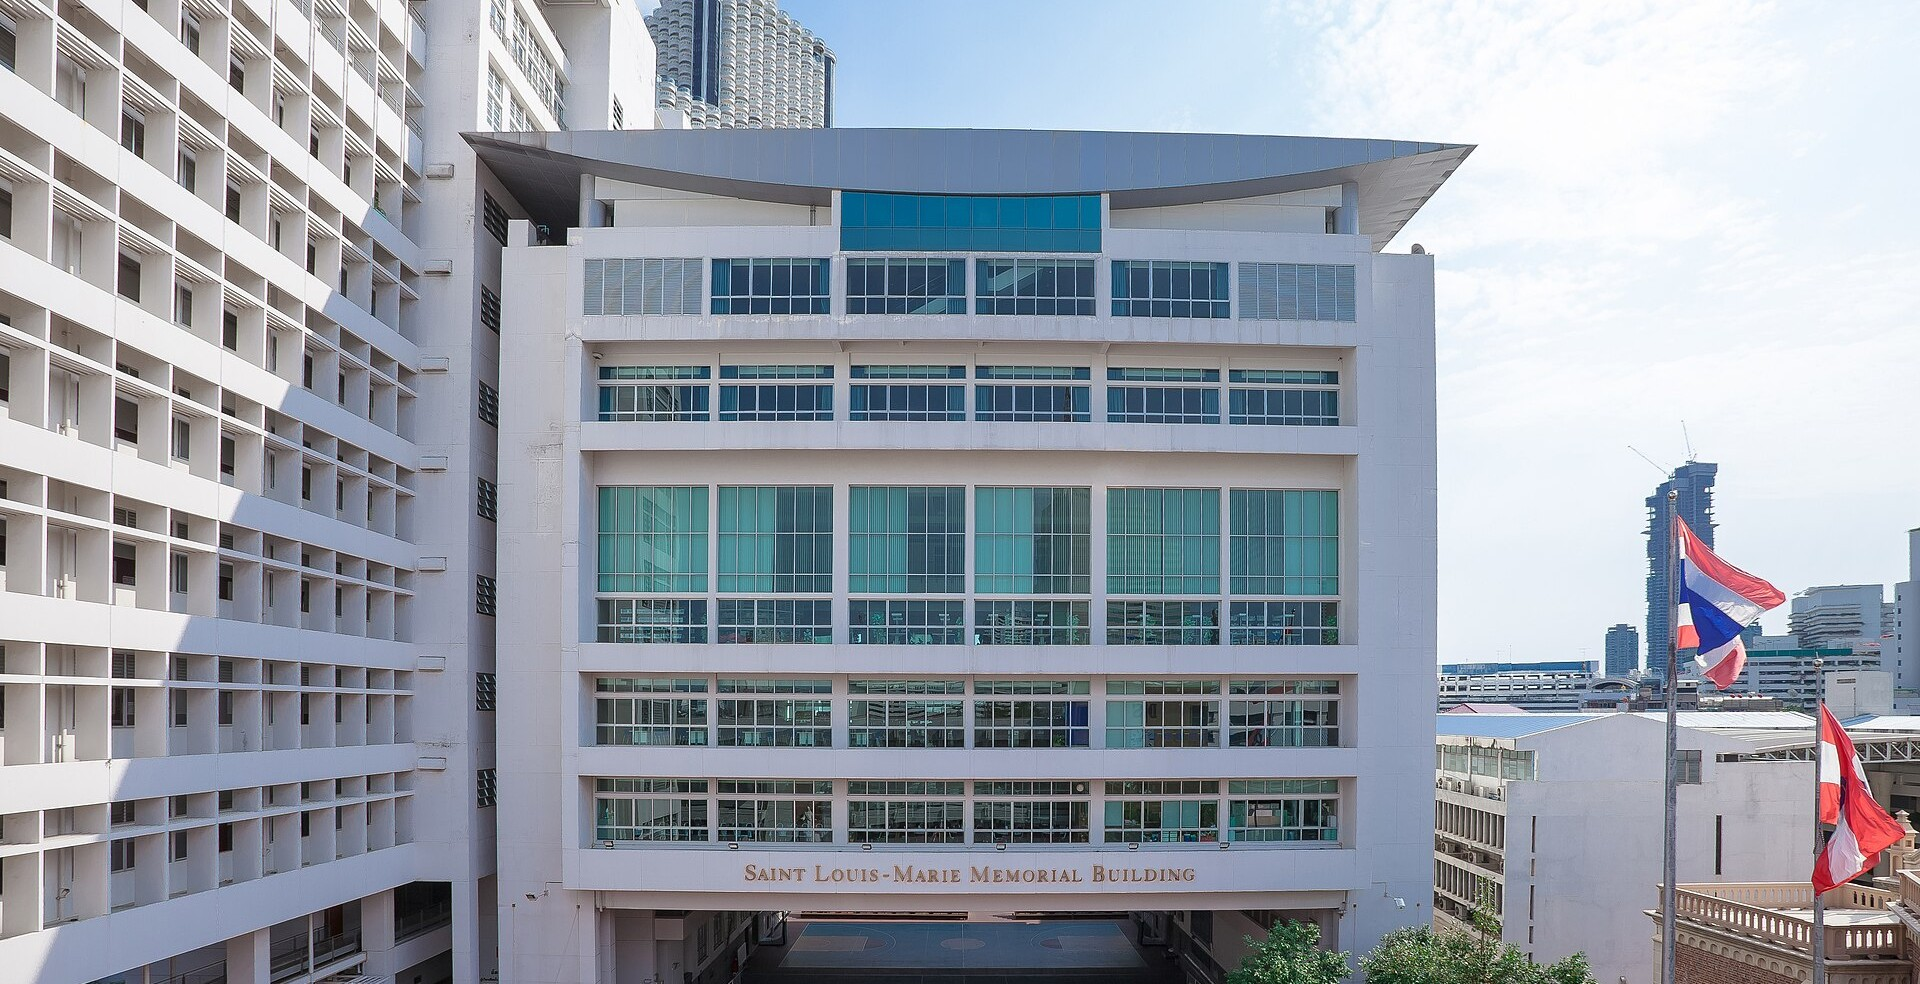
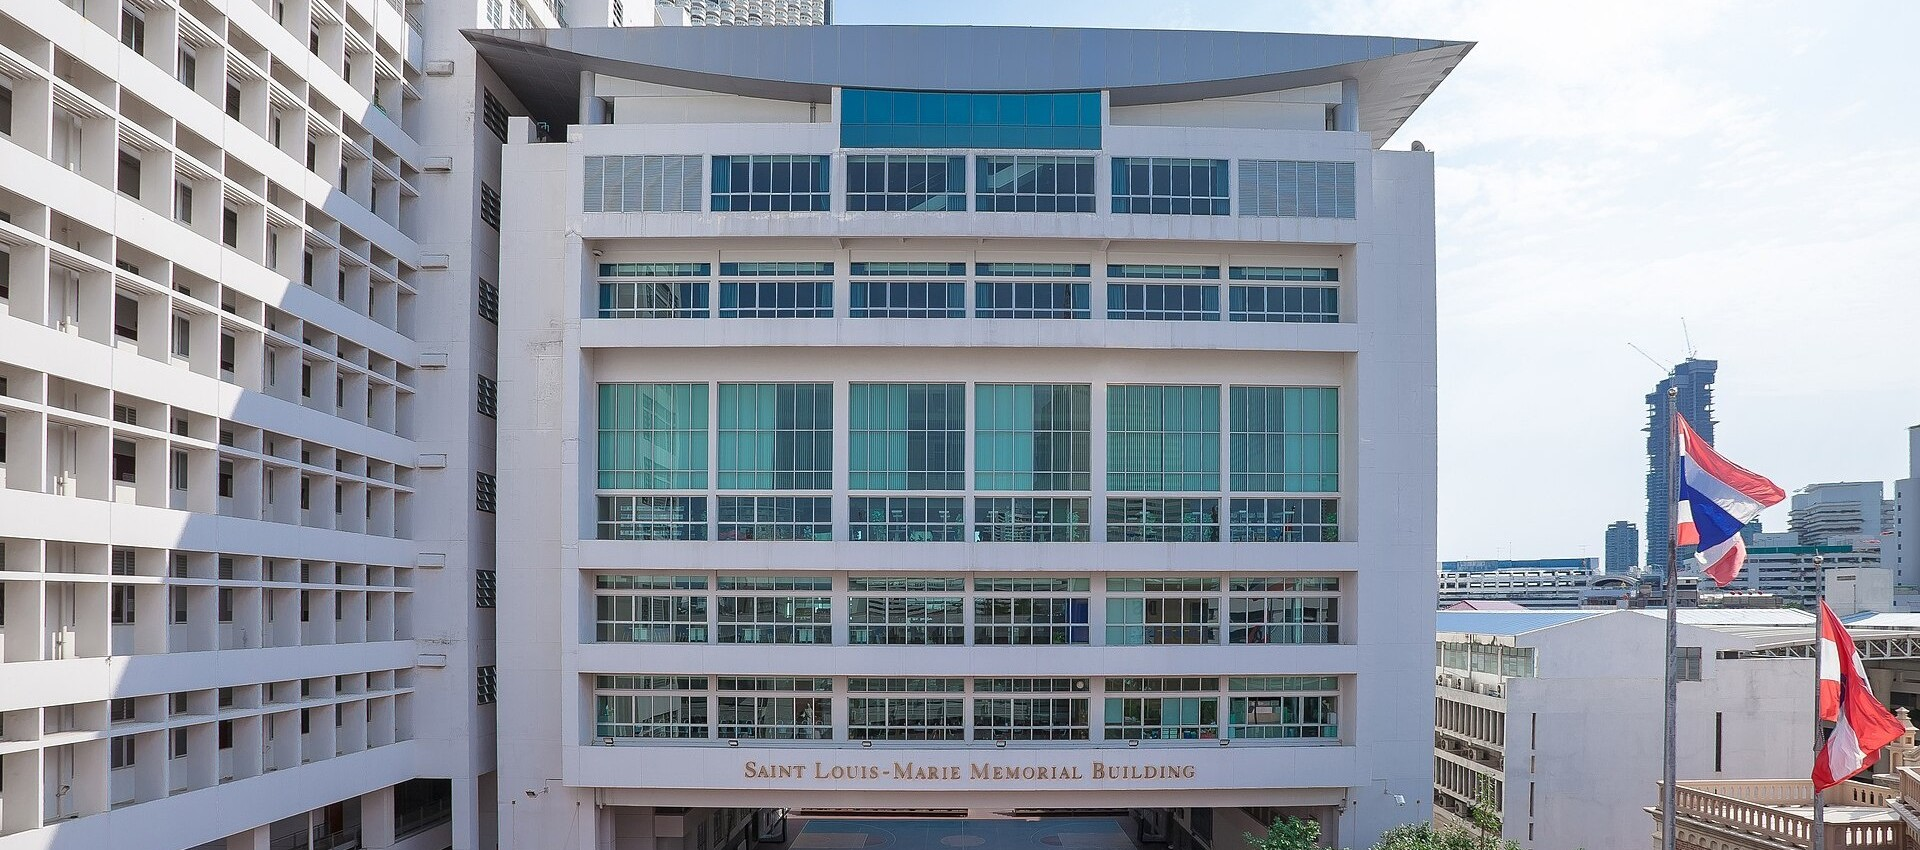
update

diff --git a/index.html b/index.html
@@ -3,7 +3,7 @@
 <head>
 <meta charset="UTF-8" />
 <meta name="viewport" content="width=device-width, initial-scale=1.0" />
-<title>ACHELOUS — Smart Water Quality Monitoring</title>
+<title>ACHELOUS</title>
 <link rel="stylesheet" href="style.css" />
 
 
@@ -56,6 +56,12 @@ img { max-width: 100%; display: block; }
 .map-panel__metrics { display: flex; flex-wrap: wrap; gap: 22px; font-family: var(--font-mono); font-size: 13px; color: var(--mist); }
 .map-panel__metrics span b { font-weight: 600; color: var(--paper); }
  
+/* floor water-quality pins (structure only — not wired to data or scripts yet) */
+.floor-pin { position: absolute; transform: translate(-50%, -100%); cursor: pointer; background: none; border: none; padding: 0; margin: 0; }
+.floor-pin__body { width: 34px; height: 34px; background: #29b6e8; border: 3px solid #fff; border-radius: 50% 50% 50% 0; transform: rotate(-45deg); box-shadow: 0 2px 6px rgba(0,0,0,0.35); display: flex; align-items: center; justify-content: center; }
+.floor-pin__label { transform: rotate(45deg); font-family: var(--font-mono); font-weight: 700; font-size: 10px; color: #06323d; white-space: nowrap; }
+.floor-pin:hover .floor-pin__body { background: #1c9fd1; }
+
 /* ===========================================================
    SYSTEM SELECTOR
    =========================================================== */
@@ -174,6 +180,26 @@ img { max-width: 100%; display: block; }
             <span>Turbidity: <b>--</b> NTU</span>
           </div>
         </div>
+
+        <!-- floor pins: position (left/top) is % of image size, adjust later once real coordinates are confirmed -->
+        <button type="button" class="floor-pin" style="left: 23.3%; top: 12.2%;" aria-label="Floor 8 water quality">
+          <span class="floor-pin__body"><span class="floor-pin__label">--</span></span>
+        </button>
+        <button type="button" class="floor-pin" style="left: 23.3%; top: 24.3%;" aria-label="Floor 7 water quality">
+          <span class="floor-pin__body"><span class="floor-pin__label">--</span></span>
+        </button>
+        <button type="button" class="floor-pin" style="left: 23%; top: 48.0%;" aria-label="Floor 5 water quality">
+          <span class="floor-pin__body"><span class="floor-pin__label">--</span></span>
+        </button>
+        <button type="button" class="floor-pin" style="left: 22.5%; top: 58.8%;" aria-label="Floor 4 water quality">
+          <span class="floor-pin__body"><span class="floor-pin__label">--</span></span>
+        </button>
+        <button type="button" class="floor-pin" style="left: 22.0%; top: 70.3%;" aria-label="Floor 3 water quality">
+          <span class="floor-pin__body"><span class="floor-pin__label">--</span></span>
+        </button>
+        <button type="button" class="floor-pin" style="left: 21.5%; top: 81.7%;" aria-label="Floor 2 water quality">
+          <span class="floor-pin__body"><span class="floor-pin__label">--</span></span>
+        </button>
       </div>
     </section>
  
